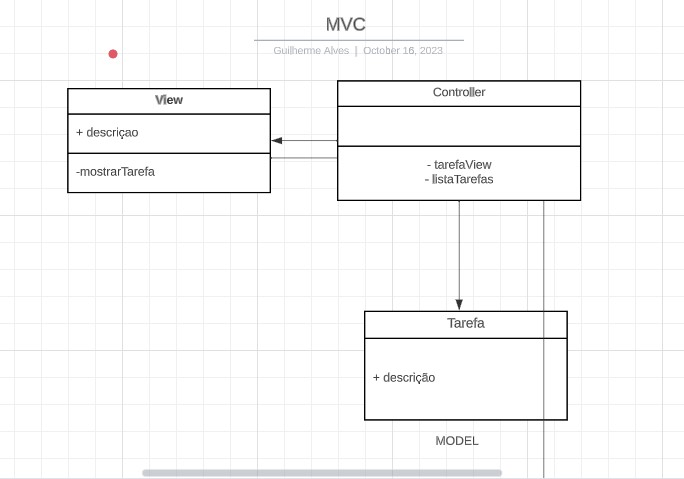
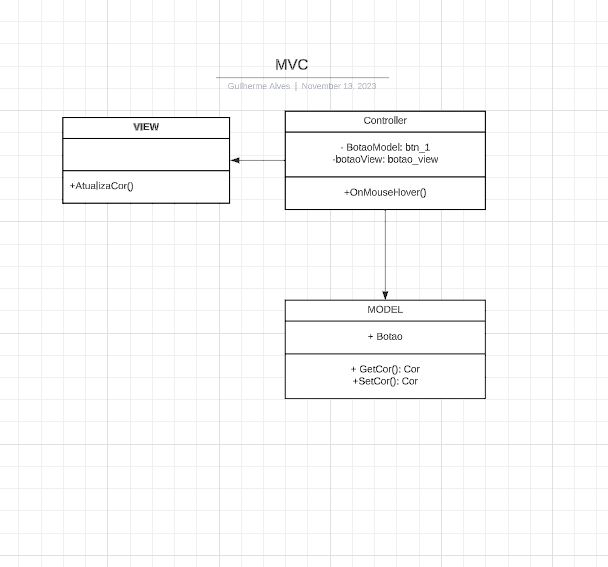
add diagrams

diff --git a/mvc/mvc/src/mvc/mvcexample.java b/mvc/mvc/src/mvc/mvcexample.java
@@ -1,0 +1,63 @@
+package mvc;
+
+import java.awt.Color;
+import java.awt.EventQueue;
+
+import javax.swing.JFrame;
+import javax.swing.JPanel;
+import javax.swing.border.EmptyBorder;
+import javax.swing.JButton;
+import java.awt.event.ActionListener;
+import java.awt.event.MouseAdapter;
+import java.awt.event.MouseEvent;
+import java.awt.event.ActionEvent;
+
+public class mvcexample extends JFrame {
+
+	private JPanel contentPane;
+
+	public static void main(String[] args) {
+		EventQueue.invokeLater(new Runnable() {
+			public void run() {
+				try {
+					mvcexample frame = new mvcexample();
+					frame.setVisible(true);
+				} catch (Exception e) {
+					e.printStackTrace();
+				}
+			}
+		});
+	}
+
+	
+	public mvcexample() {
+		setDefaultCloseOperation(JFrame.EXIT_ON_CLOSE);
+		setBounds(100, 100, 450, 300);
+		contentPane = new JPanel();
+		contentPane.setBorder(new EmptyBorder(5, 5, 5, 5));
+
+		setContentPane(contentPane);
+		
+		JButton btn_botao = new JButton("Mudar Cor");
+		 btn_botao.setBackground(Color.GRAY);
+		 
+		 btn_botao.addMouseListener(new MouseAdapter() {
+			 
+			 @Override
+			 public void mouseExited(MouseEvent e) {
+				 btn_botao.setBackground(Color.YELLOW);
+			 }
+			 @Override
+			 public void mouseEntered(MouseEvent e) {
+				 btn_botao.setBackground(Color.BLUE);
+			 }
+			 
+	
+		 });
+		
+		
+
+		contentPane.add( btn_botao);
+	}
+
+}
